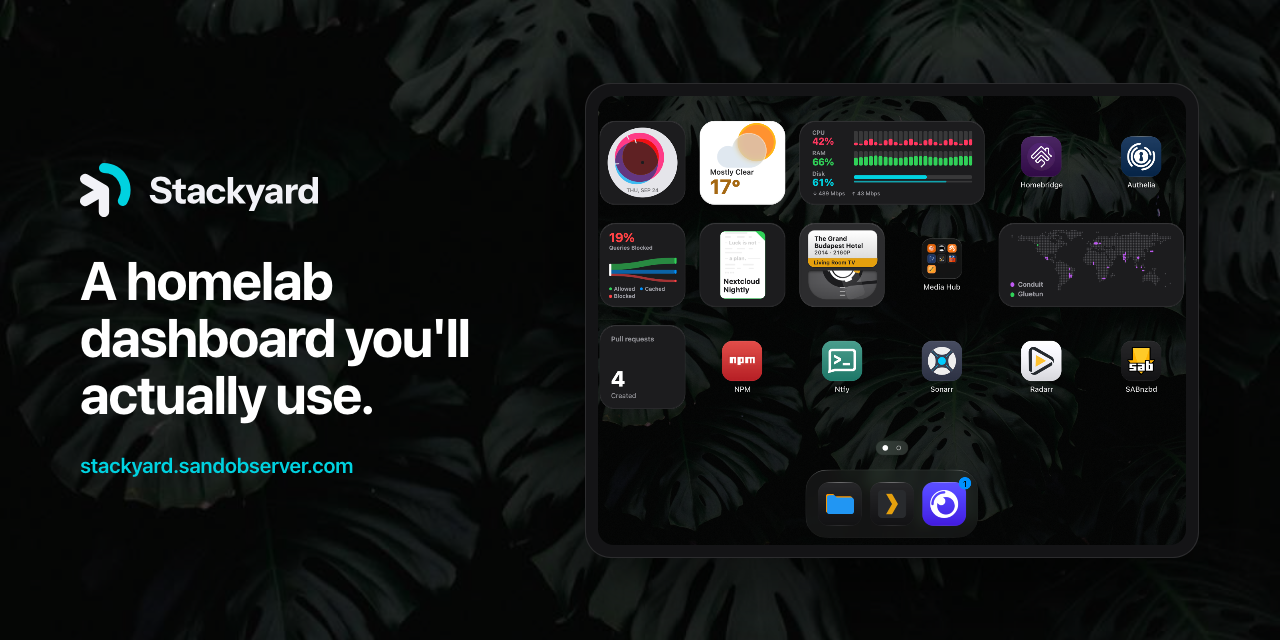
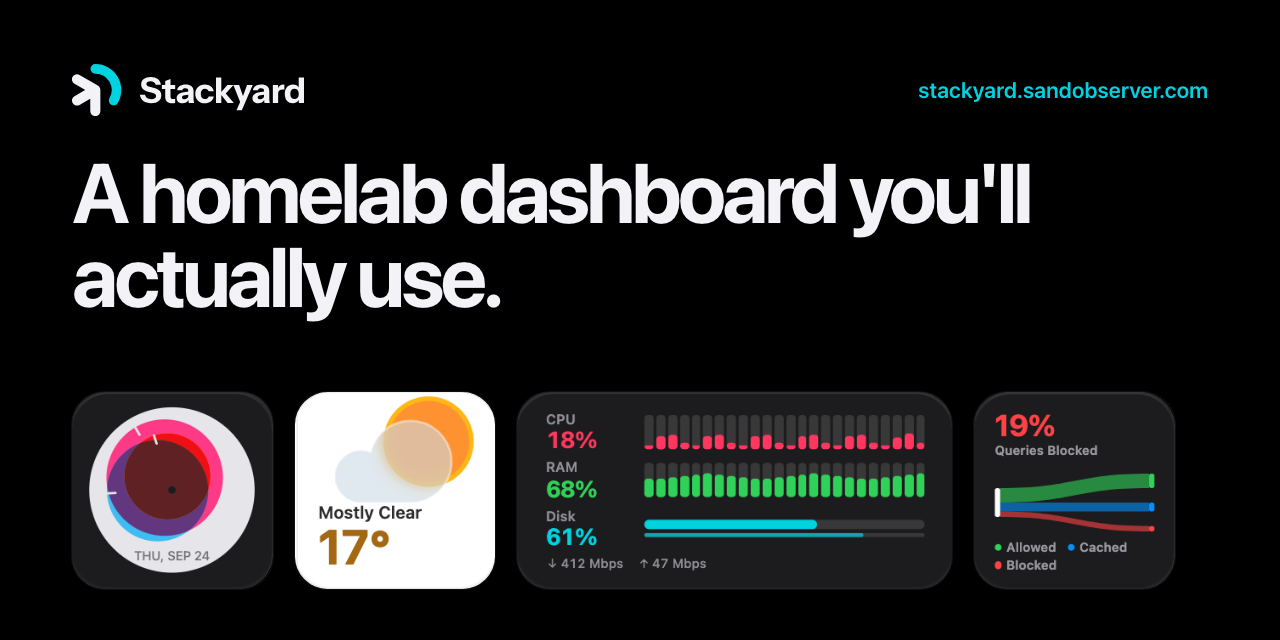
Docs: refresh the social card and trim the README badges (#537)

diff --git a/README.md b/README.md
@@ -6,14 +6,9 @@
 
 <p align="center">
   <a href="https://github.com/SandObserver/stackyard/pkgs/container/stackyard"><img alt="ghcr.io" src="https://img.shields.io/badge/ghcr.io-stackyard-2496ED?logo=github&logoColor=white"></a>
-  <a href="https://hub.docker.com/r/sandobserver/stackyard"><img alt="Docker Hub" src="https://img.shields.io/badge/docker%20hub-stackyard-2496ED?logo=docker&logoColor=white"></a>
   <a href="https://github.com/SandObserver/stackyard/releases"><img alt="Latest release" src="https://img.shields.io/github/v/release/SandObserver/stackyard"></a>
-</p>
-
-<p align="center">
-  <a href="https://github.com/SandObserver/stackyard/actions/workflows/test.yml"><img alt="Tests Status" src="https://github.com/SandObserver/stackyard/actions/workflows/test.yml/badge.svg"></a>
+  <a href="https://github.com/SandObserver/stackyard/actions/workflows/test.yml"><img alt="Tests Status" src="https://img.shields.io/github/actions/workflow/status/SandObserver/stackyard/test.yml?branch=main&label=tests"></a>
   <a href="https://www.bestpractices.dev/projects/14462"><img alt="OpenSSF Best Practices" src="https://www.bestpractices.dev/projects/14462/badge"></a>
-  <a href="https://www.bestpractices.dev/projects/14462"><img alt="OpenSSF Baseline" src="https://www.bestpractices.dev/projects/14462/baseline"></a>
 </p>
 
 <p align="center"><img src="docs/screenshot.png" width="85%" alt="Stackyard dashboard"></p>
